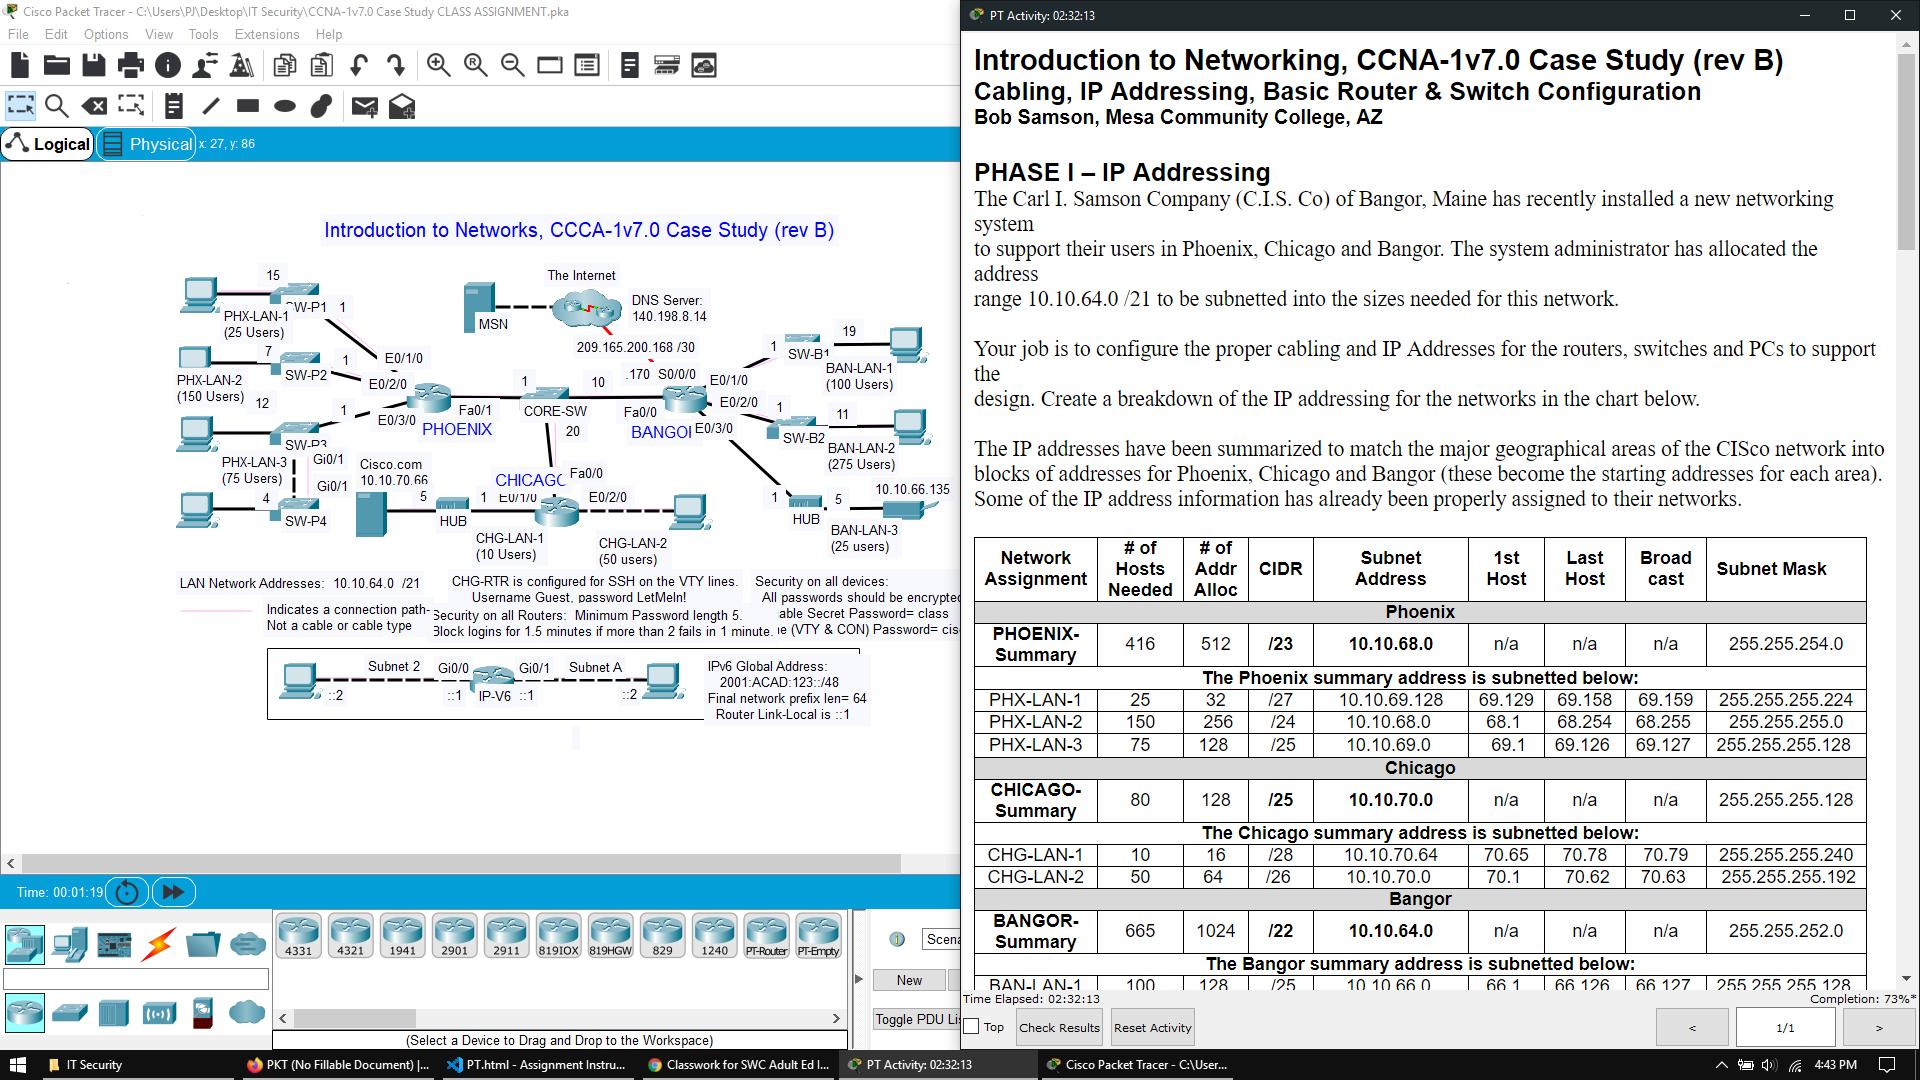
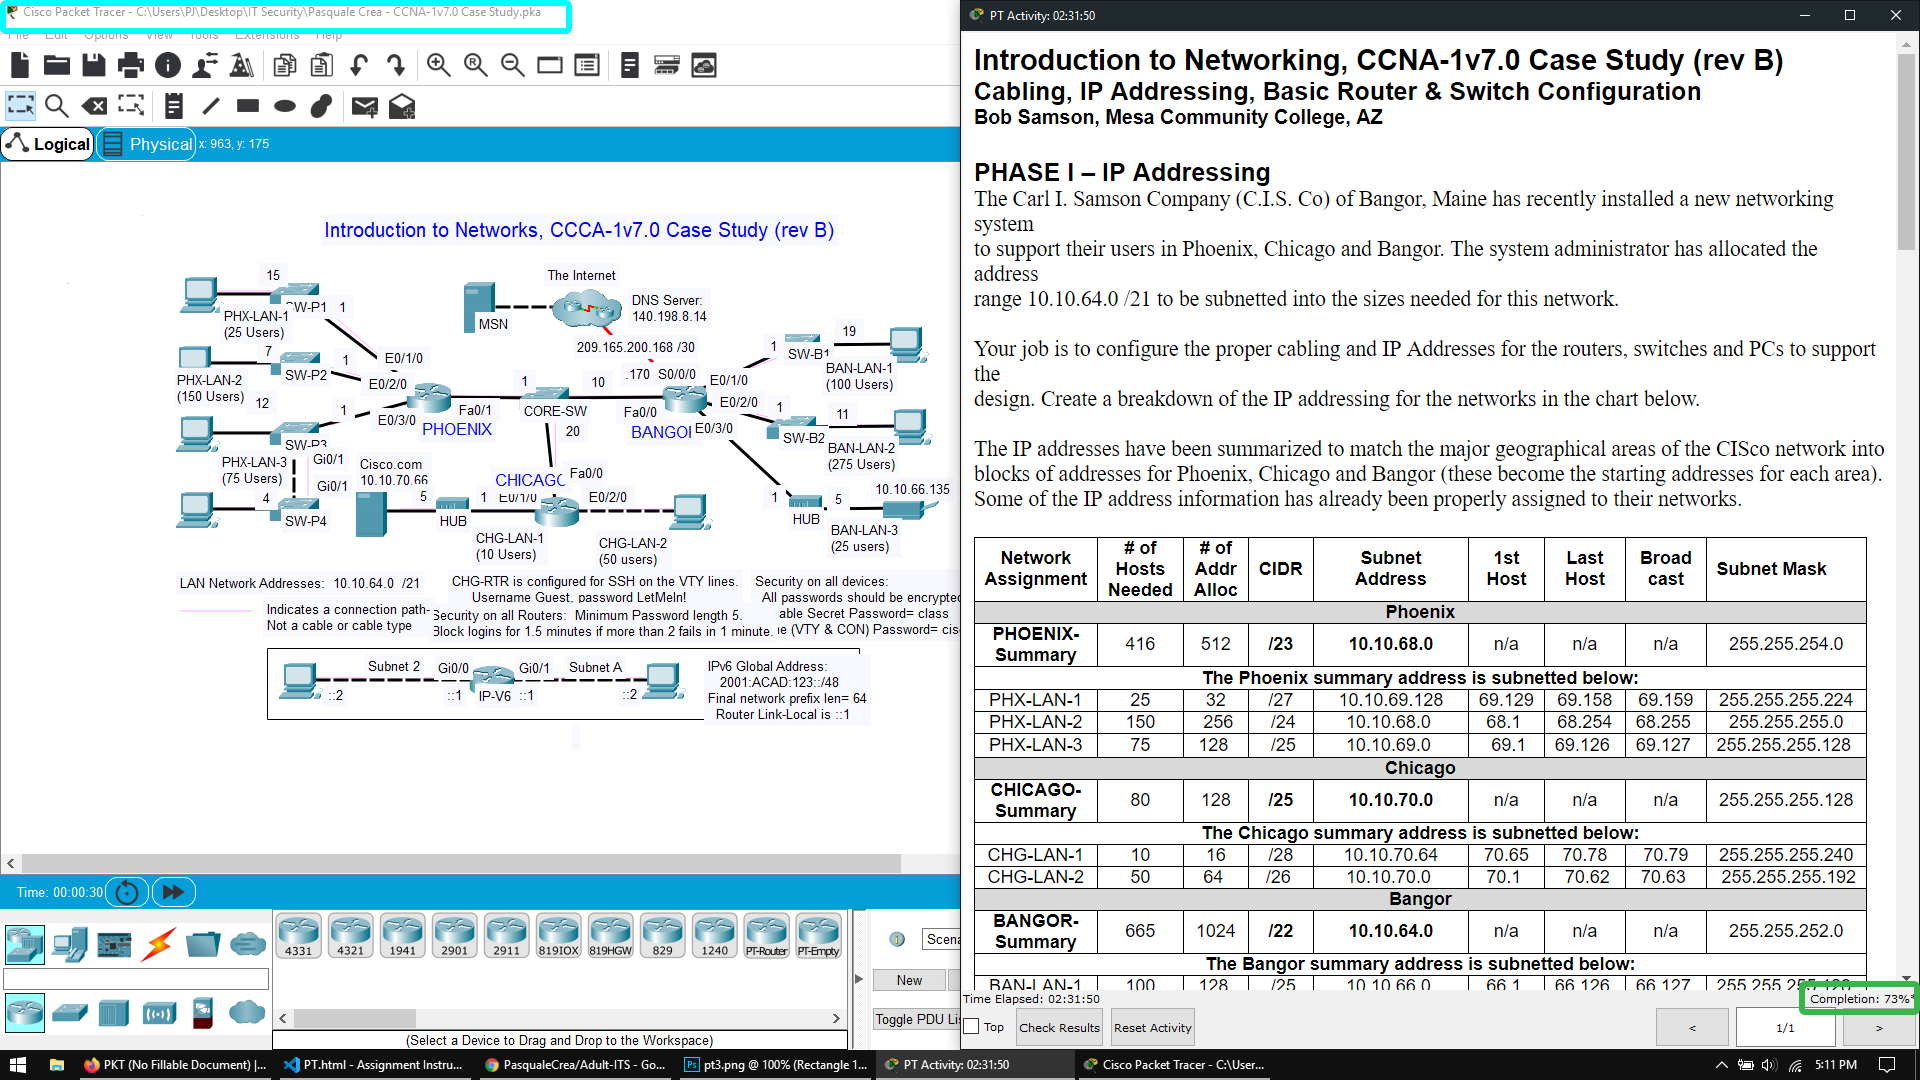
Updated step 3 text and image for clarity.

Changed region(s): [[0.0312, 0.9472, 0.6562, 1.0], [0.0, 0.0, 0.3125, 0.0306], [0.9375, 0.8861, 1.0, 0.9472]]

diff --git a/PT.html b/PT.html
@@ -26,7 +26,7 @@
         <section class="instruction">
             <h2>Step 3: </h2>
             <img class="example" src="images/pt3.png">
-            <p>Take a screen shot of the packet tracer displaying the file name and the completion percentage.</p>
+            <p>Take a screen shot of the packet tracer displaying the file name, which should include your name (outlined in cyan) and the completion percentage.(Outlined in green)</p>
         </section>
         <section class="instruction">
             <h2>Step 4: </h2>
